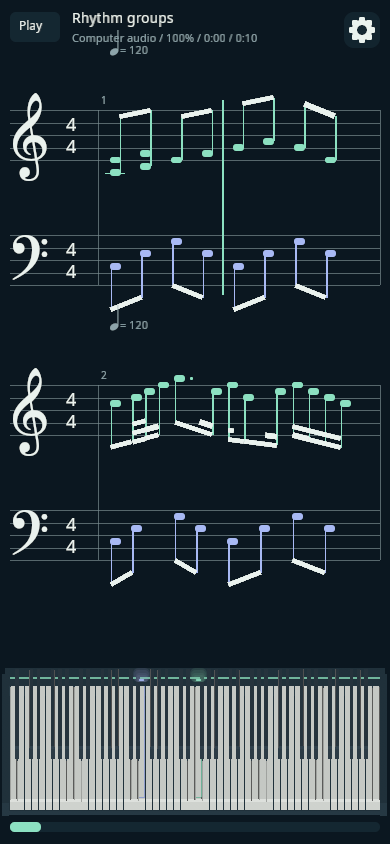
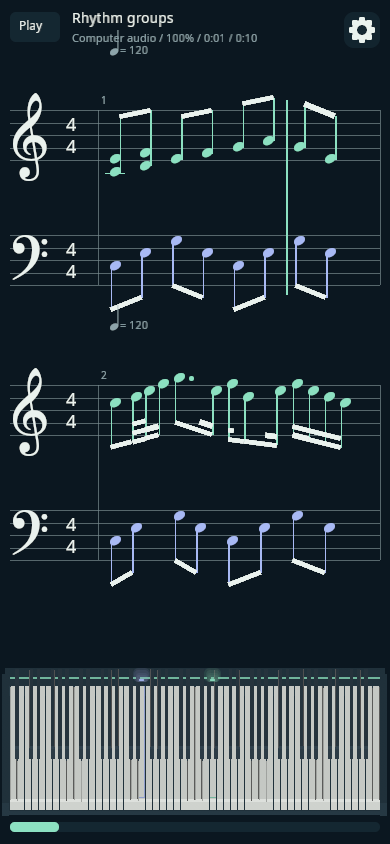
Record integrated glyph validation and refresh real grouped-note captures

diff --git a/docs/adr/0036-rhythmic-reading-and-note-glyphs.md b/docs/adr/0036-rhythmic-reading-and-note-glyphs.md
@@ -57,3 +57,17 @@ no excluded fork source or external assets consulted.
 
 - https://smufl.formats.music/latest/tables/individual-notes.html
 - https://smufl.formats.music/latest/tables/rests.html
+
+## Integration with main
+
+Resolved against the existing beam-group renderer rather than replacing it.
+Standalone notes use complete Bravura glyphs; grouped notes use Bravura heads
+with the established shared stems, slope and numbered beams. Explicit authored
+stem direction remains authoritative. ADR-0033 retains ownership of grouping.
+
+The integrated tree passes all 145 workspace Rust tests, native/workspace and
+WASM Clippy with warnings denied, formatting and a release WASM build. The
+actual Bevy browser beam scenario passes chord stems, up/down directions, mixed
+values/hooks, 6/8, scaled/narrow systems and view switching. Updated desktop
+and mobile captures were visually inspected; reproduce with
+`TANGENT_CAPTURE_BEAMS=1 node web/piano/capture.mjs`.
